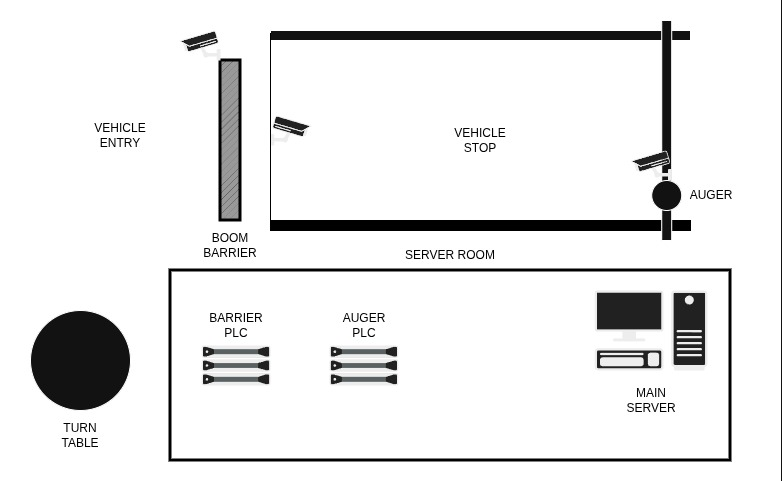
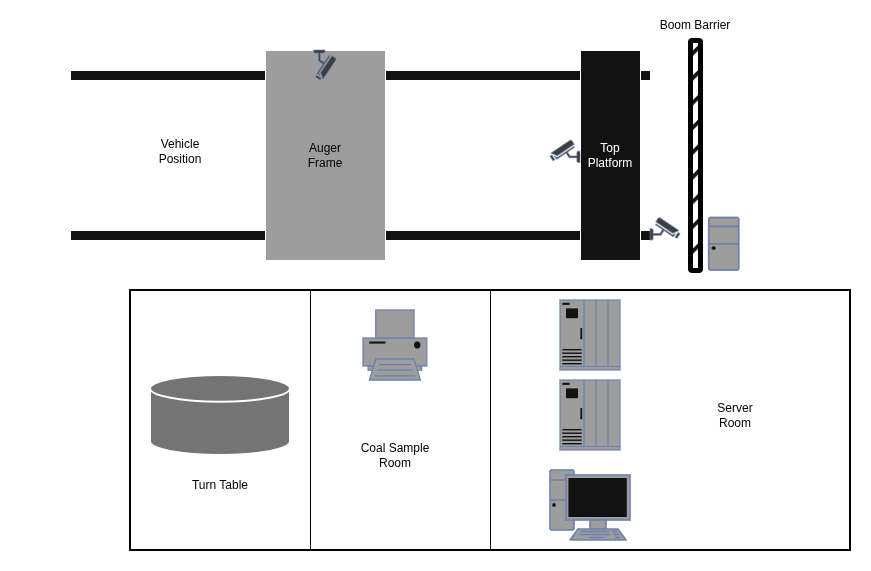
fixes

Changed region(s): [[0.0307, 0.0312, 0.9821, 0.9667], [0.1228, 0.2183, 0.2455, 0.3119], [0.798, 0.8108, 0.8593, 0.8732]]

diff --git a/SCRIPTS/DATA_SYNC.py b/SCRIPTS/DATA_SYNC.py
@@ -1,0 +1,210 @@
+import os
+import time
+import base64
+import pymysql
+import requests
+
+from datetime import datetime
+
+# ================= CONFIG =================
+DB_CONFIG = {
+    "host": "localhost",
+    "user": "root",
+    "password": "root",
+    "database": "your_db"
+}
+
+DATA_API_URL = "http://192.168.1.58:8080/UltratechStagingV1_21_5_3_(1)/DharCoalAjaxReqController?apiName=syncDharCoalDataTable"
+UPTIME_API_URL = "http://192.168.1.58:8080/UltratechStagingV1_21_5_3_(1)/DharCoalAjaxReqController?apiName=syncUptimeHealthStatus"
+BASE_FILE_PATH = "C:/Users/COAL_SAMPLING_1/PRODUCTION_CODE/COAL_SAMPLING/"
+
+SYNC_INTERVAL = 600  # 10 minutes
+BATCH_SIZE = 5
+# ==========================================
+
+
+# -------- DB CONNECTION --------
+def get_db():
+    return pymysql.connect(**DB_CONFIG, cursorclass=pymysql.cursors.DictCursor)
+
+
+# -------- FETCH DATA (MATCHES DJANGO LOGIC) --------
+def fetch_unsynced_rows(limit=BATCH_SIZE):
+    rows = [{
+        "uid": "uid1223",
+        "rfids": "rfids3434",
+        "vehicle_number": "vehicle_number32342",
+        "create_time": "create_time234234",
+        "vendor_name": "vendor_name234234",
+        "vendor_code": "vendor_code234234",
+
+        "vehicle_img_path": "/home/omkar/Documents/logout_3_20250702_103147.jpg",
+        "sample_1_img_path": "/home/omkar/Documents/logout_3_20250702_103147.jpg",
+        "sample_2_img_path": "/home/omkar/Documents/logout_3_20250702_103147.jpg",
+        "sample_3_img_path": "/home/omkar/Documents/logout_3_20250702_103147.jpg",
+        "report_path": "/home/omkar/Downloads/Project_Timeline_MOM.pdf",
+    }]
+    # db = get_db()
+    # cur = db.cursor()
+
+    # query = f"""
+    # SELECT vl.*,
+    #        vm.vehicle_number,
+    #        vm.vendor_code,
+    #        vdm.vendor_name
+    # FROM VEHICLE_LOGS vl
+    # LEFT JOIN VEHICLE_MASTER vm 
+    #     ON FIND_IN_SET(vm.rfid, REPLACE(vl.rfids, '|', ',')) > 0
+    # LEFT JOIN VENDOR_MASTER vdm 
+    #     ON vm.vendor_code = vdm.vendor_code
+    # WHERE vl.status = 'COMPLETED'
+    #   AND (vl.is_synced = 0 OR vl.is_synced IS NULL)
+    # ORDER BY vl.create_time ASC
+    # LIMIT {limit}
+    # """
+
+    # cur.execute(query)
+    # rows = cur.fetchall()
+
+    # cur.close()
+    # db.close()
+    return rows
+
+
+# -------- UPDATE STATUS --------
+def mark_synced(record_id):
+    db = get_db()
+    cur = db.cursor()
+
+    cur.execute(
+        "UPDATE VEHICLE_LOGS SET is_synced = 1 WHERE id = %s",
+        (record_id,)
+    )
+
+    db.commit()
+    cur.close()
+    db.close()
+
+
+# -------- FILE ENCODING --------
+def encode_file(relative_path):
+    if not relative_path:
+        return None
+
+    abs_path = os.path.join(relative_path)
+
+    if not os.path.exists(abs_path):
+        print(f"[WARN] Missing file: {abs_path}")
+        return None
+
+    try:
+        with open(abs_path, "rb") as f:
+            return base64.b64encode(f.read()).decode("utf-8")
+    except Exception as e:
+        print(f"[ERROR] Failed reading: {abs_path}, {e}")
+        return None
+
+
+# -------- BUILD PAYLOAD --------
+def build_payload(row):
+    return {
+        "data": {
+            "UID": row["uid"],
+            "RFIDS": row["rfids"],
+            "VEHICLE_NUM": row.get("vehicle_number"),
+            "DT_STAMP": str(datetime.now()),
+            "VENDOR_NAME": row.get("vendor_name"),
+            "VENDOR_CODE": row.get("vendor_code"),
+
+            # "VEHICLE_IMG": encode_file(row.get("vehicle_img_path")),
+            # "SAMPLE_IMG_1": encode_file(row.get("sample_1_img_path")),
+            # "SAMPLE_IMG_2": encode_file(row.get("sample_2_img_path")),
+            # "SAMPLE_IMG_3": encode_file(row.get("sample_3_img_path")),
+            "REPORT_PATH": encode_file(row.get("report_path"))
+        }
+    }
+
+def build_payload_uptime():
+    return {
+        "conveyorList": [{
+            "ID": 1245,
+            "CAMERA1_UPTIME": 1440,
+            "PLC_UPTIME": 1440,
+            "SERVER_UPTIME": 1440,
+            "INTERNET_UPTIME": 1440,
+            "CURRENT_DATETTIME": str(datetime.now()),
+        }]
+    }
+
+# -------- API CALL --------
+def send_to_server(payload):
+    try:
+        res = requests.post(UPTIME_API_URL, json=payload)
+
+        if res.status_code != 200:
+            print(f"[SYNC] HTTP Error: {res.status_code}")
+            return False
+
+        data = res.json()
+
+        return data.get("status") == "success" or data.get("synced") is True
+
+    except Exception as e:
+        print(f"[SYNC] Exception: {e}")
+        return False
+
+
+# -------- MAIN LOOP --------
+def run_sync():
+    print("[SYNC] Started background sync service...")
+
+    while True:
+        try:
+            rows = fetch_unsynced_rows()
+
+            if not rows:
+                print("[SYNC] No pending records")
+            else:
+                print(f"[SYNC] Processing {len(rows)} records")
+
+                for row in rows:
+                    payload = build_payload(row)
+
+                    success = send_to_server(payload)
+
+                    if success:
+                        mark_synced(row["id"])
+                        print(f"[SYNC] Success UID: {row['uid']}")
+                    else:
+                        print(f"[SYNC] Failed UID: {row['uid']}")
+
+        except Exception as e:
+            print(f"[SYNC] Loop error: {e}")
+
+        time.sleep(SYNC_INTERVAL)
+
+# -------- MAIN LOOP --------
+def run_uptime_sync():
+    print("[SYNC] Started background sync service...")
+
+    while True:
+        try:
+
+            print(f"[SYNC] Processing uptime sync")
+
+            payload = build_payload_uptime()
+
+            success = send_to_server(payload)
+
+            if success:
+                print(f"[SYNC] Success !!")
+            else:
+                print(f"[SYNC] Failed !!")
+
+        except Exception as e:
+            print(f"[SYNC] Loop error: {e}")
+
+        time.sleep(SYNC_INTERVAL)
+
+if __name__ == "__main__":
+    run_uptime_sync()

diff --git a/SCRIPTS/HEALTH_STATUS.py b/SCRIPTS/HEALTH_STATUS.py
@@ -1,0 +1,180 @@
+import os
+import csv
+import time
+import pymysql
+import subprocess
+import platform
+from datetime import datetime, timedelta
+
+DB_CONFIG = {
+    "host": "localhost",
+    "user": "root",
+    "password": "insightzz@123",
+    "database": "COAL_SAMPLING_DHAR",
+    "cursorclass": pymysql.cursors.DictCursor
+}
+
+BASE_DIR = "health_logs"
+PING_TIMEOUT = 3
+
+def get_connection():
+    return pymysql.connect(**DB_CONFIG)
+
+def ping(ip):
+    if not ip:
+        return False
+
+    param = "-n" if platform.system().lower() == "windows" else "-c"
+    timeout_param = "-w" if platform.system().lower() == "windows" else "-W"
+
+    try:
+        result = subprocess.run(
+            ["ping", param, "1", timeout_param, str(PING_TIMEOUT), ip],
+            stdout=subprocess.DEVNULL,
+            stderr=subprocess.DEVNULL,
+        )
+        return result.returncode == 0
+    except Exception:
+        return False
+
+def get_csv_path(now):
+    return os.path.join(BASE_DIR, now.strftime("%Y-%m-%d") + ".csv")
+
+
+def write_header_if_needed(file_path):
+    if not os.path.exists(file_path):
+        with open(file_path, "w", newline="") as f:
+            writer = csv.writer(f)
+            writer.writerow(["timestamp", "ip", "location", "device_type", "status"])
+
+def fetch_devices(conn):
+    with conn.cursor() as cursor:
+        cursor.execute("SELECT ID, IP, LOCATION, DEVICE_TYPE FROM HEALTH_STATUS")
+        return cursor.fetchall()
+
+def update_device(conn, device_id, status):
+    with conn.cursor() as cursor:
+        cursor.execute(
+            "UPDATE HEALTH_STATUS SET STATUS=%s, LAST_PING=NOW() WHERE ID=%s",
+            (status, device_id)
+        )
+    conn.commit()
+
+def log_devices(conn, now):
+    file_path = get_csv_path(now)
+    write_header_if_needed(file_path)
+
+    timestamp = now.strftime("%Y-%m-%d %H:%M:%S")
+
+    devices = fetch_devices(conn)
+    rows = []
+
+    for d in devices:
+        is_online = ping(d["IP"])
+        status = "ONLINE" if is_online else "OFFLINE"
+
+        update_device(conn, d["ID"], status)
+
+        rows.append([
+            timestamp,
+            d["IP"],
+            d["LOCATION"],
+            d["DEVICE_TYPE"],
+            status
+        ])
+
+    with open(file_path, "a", newline="") as f:
+        writer = csv.writer(f)
+        writer.writerows(rows)
+
+def cleanup_old_files(now):
+    if not os.path.exists(BASE_DIR):
+        return
+
+    for file in os.listdir(BASE_DIR):
+        if not file.endswith(".csv"):
+            continue
+
+        try:
+            file_date = datetime.strptime(file.replace(".csv", ""), "%Y-%m-%d")
+            if (now - file_date).days > 3:
+                os.remove(os.path.join(BASE_DIR, file))
+                print(f"[CLEANUP] Deleted {file}")
+        except Exception:
+            continue
+
+def calculate_uptime(date_str):
+    file_path = os.path.join(BASE_DIR, f"{date_str}.csv")
+
+    if not os.path.exists(file_path):
+        print(f"[WARN] No file for {date_str}")
+        return []
+
+    stats = {}
+
+    with open(file_path, "r") as f:
+        reader = csv.DictReader(f)
+
+        for row in reader:
+            ip = row["ip"]
+            status = row["status"]
+
+            if ip not in stats:
+                stats[ip] = {"total": 0, "online": 0}
+
+            stats[ip]["total"] += 1
+            if status == "ONLINE":
+                stats[ip]["online"] += 1
+
+    report = []
+    for ip, s in stats.items():
+        total = s["total"]
+        online = s["online"]
+
+        uptime_min = (online / total * 1440) if total > 0 else 0
+
+        report.append({
+            "ip": ip,
+            "uptime_minutes": round(uptime_min, 2),
+            "uptime_percent": round((online / total * 100), 2) if total > 0 else 0
+        })
+
+    return report
+
+def main():
+    print("[START] Health monitor running...")
+    os.makedirs(BASE_DIR, exist_ok=True)
+
+    last_report_date = None
+
+    while True:
+        start = time.time()
+        now = datetime.now()
+
+        conn = get_connection()
+
+        try:
+            log_devices(conn, now)
+            cleanup_old_files(now)
+
+            # Run report at 00:15
+            if now.hour == 0 and now.minute == 15:
+                if last_report_date != now.date():
+                    target_date = (now - timedelta(days=1)).strftime("%Y-%m-%d")
+                    print(f"[REPORT] {target_date}")
+
+                    report = calculate_uptime(target_date)
+                    for r in report:
+                        print(r)
+
+                    last_report_date = now.date()
+
+        finally:
+            conn.close()
+
+        elapsed = time.time() - start
+        time.sleep(max(0, 10 - elapsed))
+
+
+if __name__ == "__main__":
+    main()
